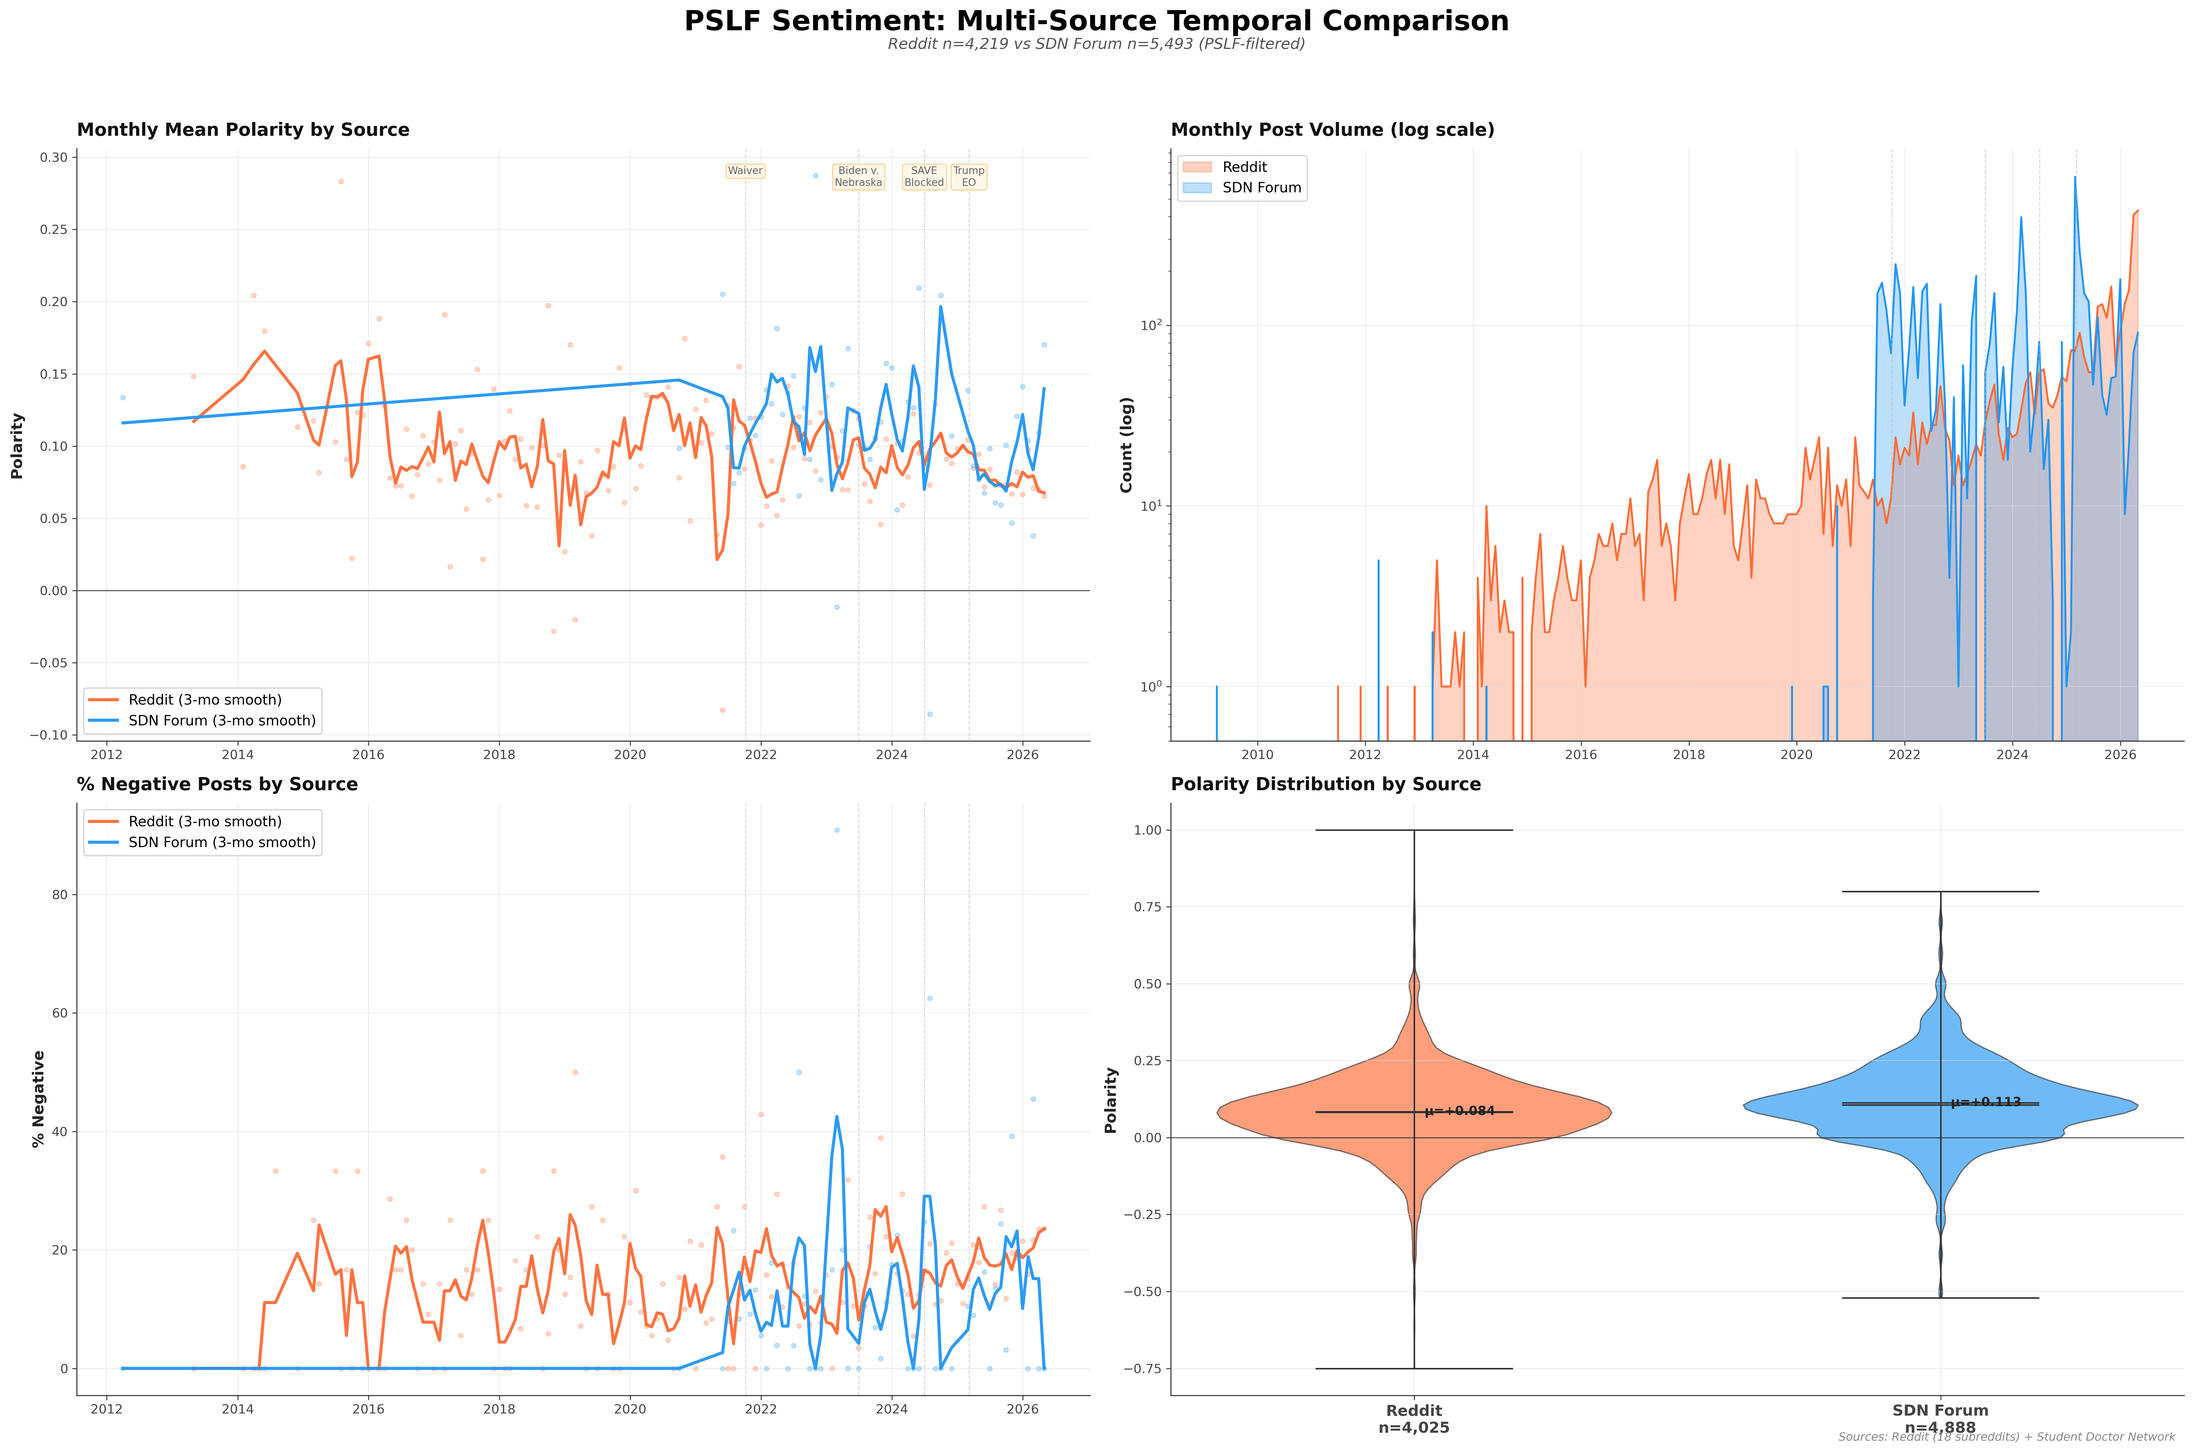
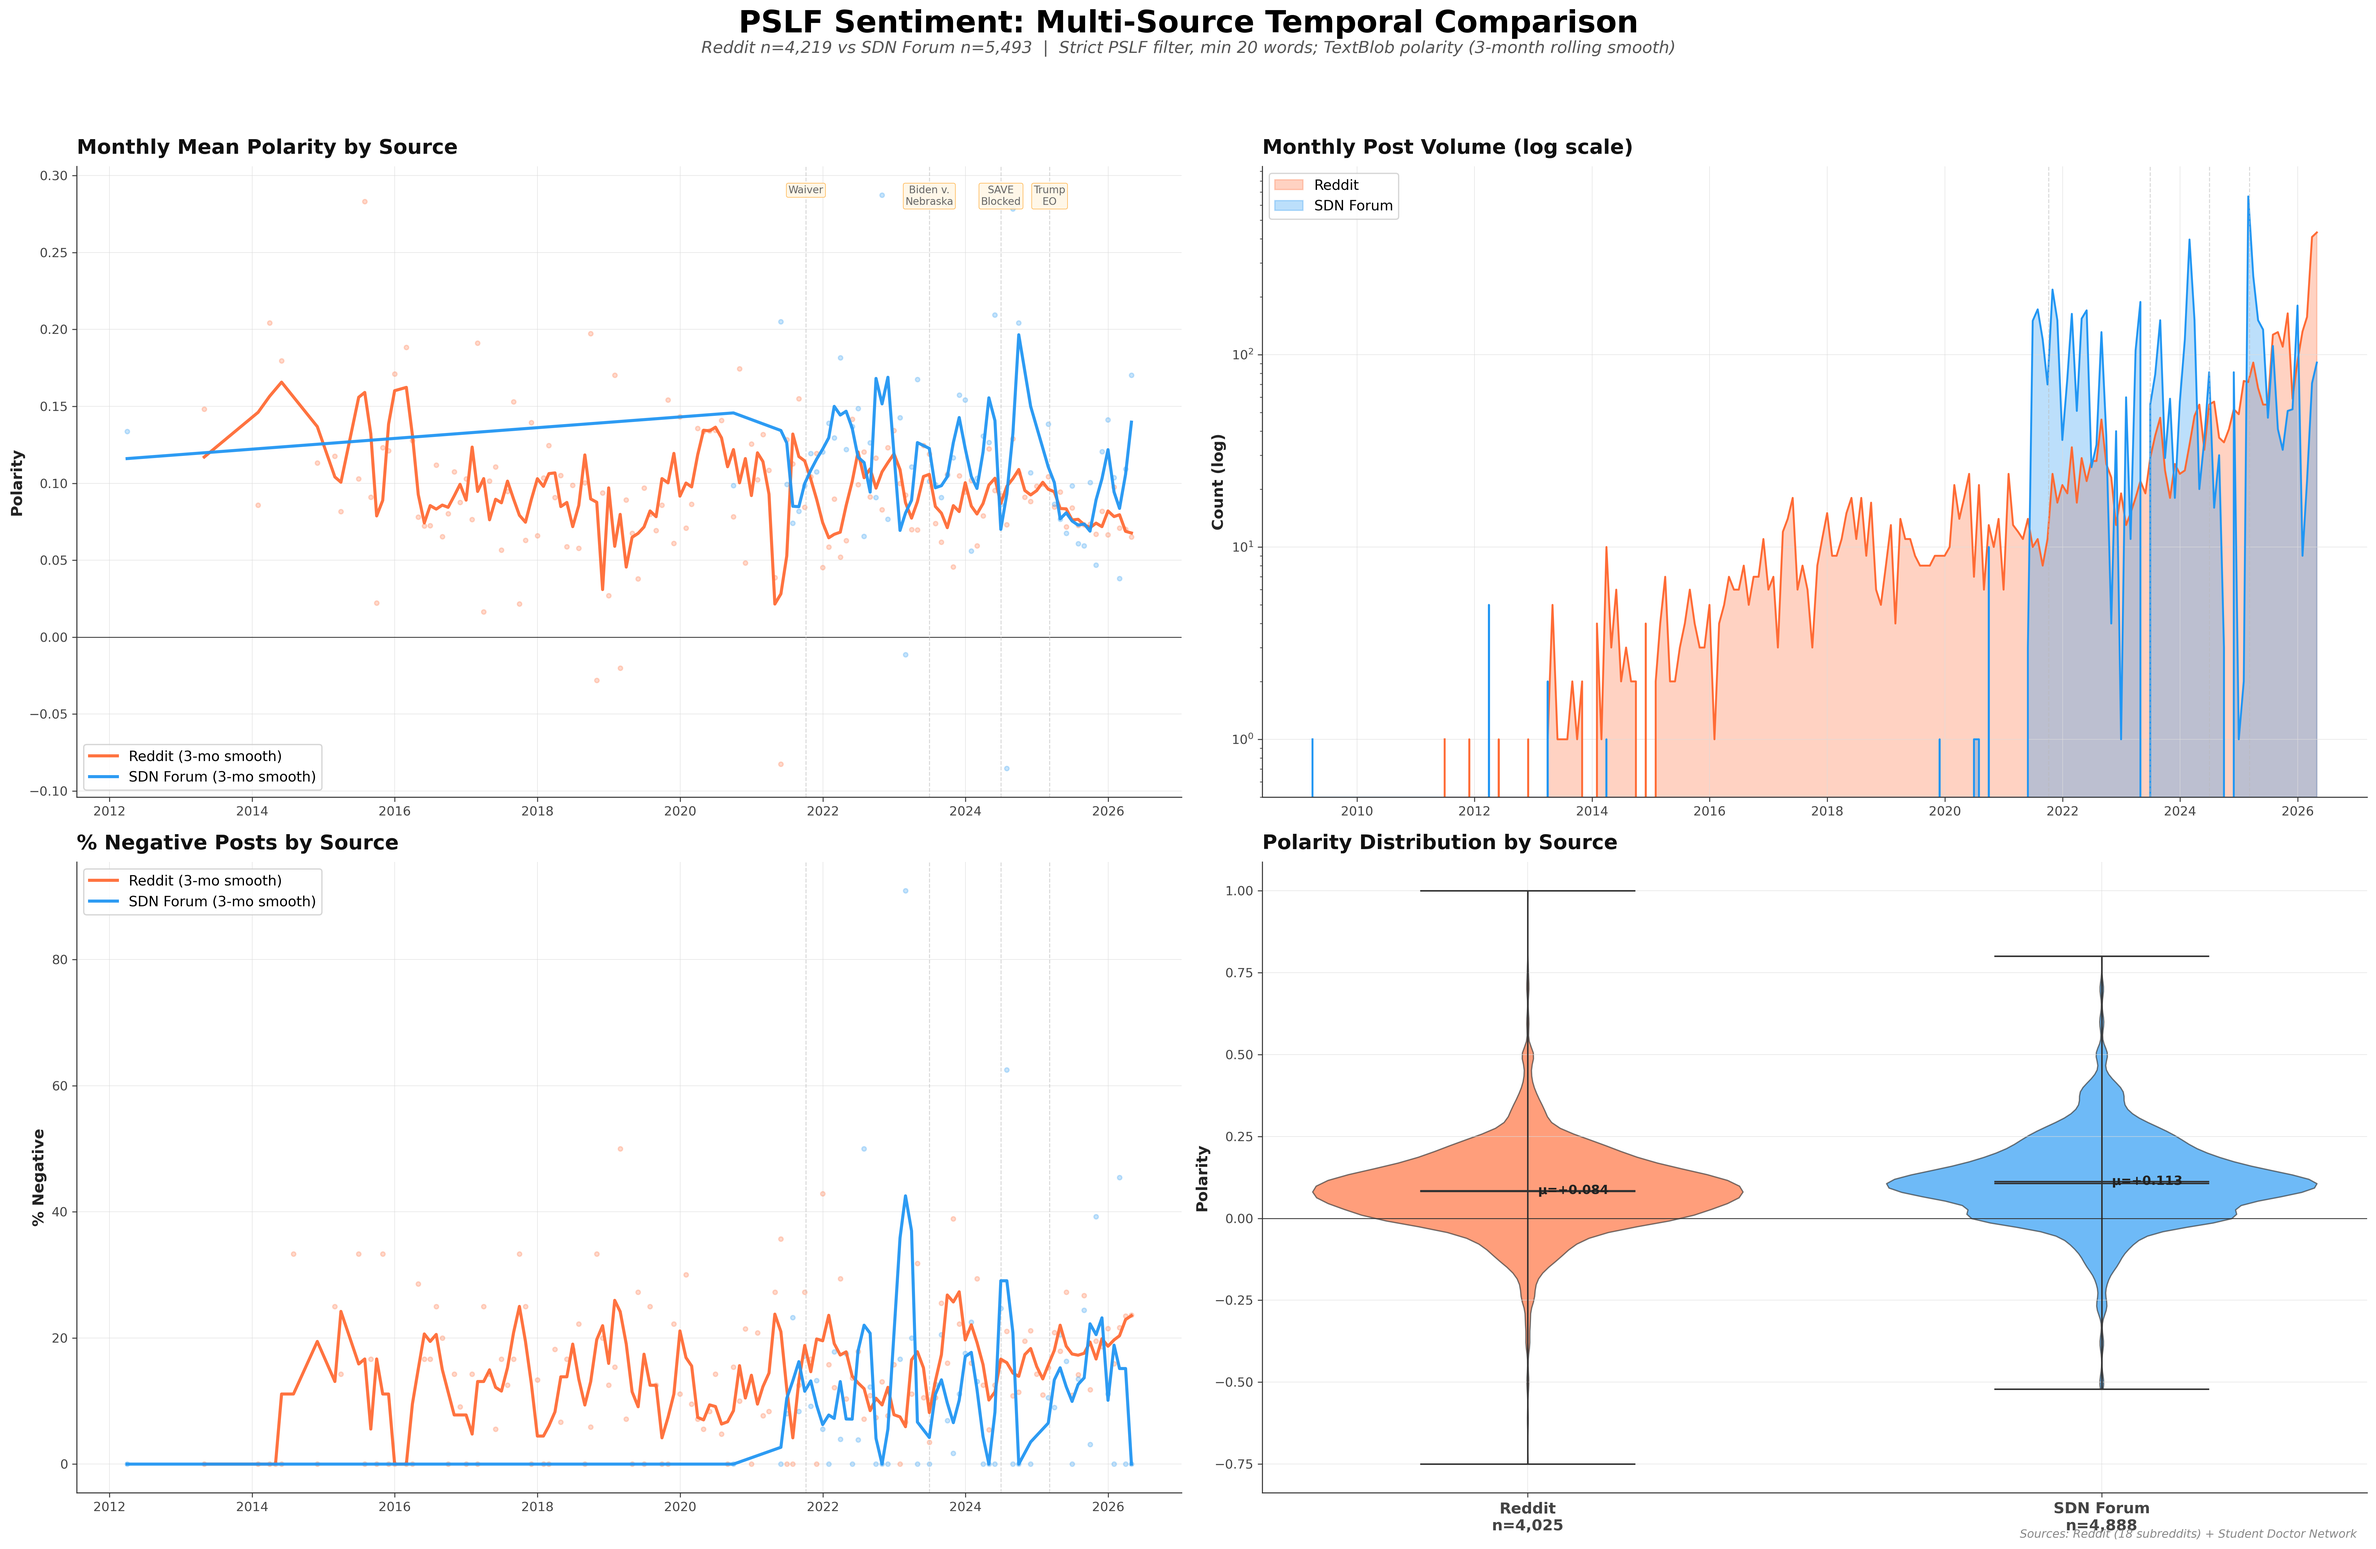
Aesthetic polish: forest plot effect-size bands, larger panel titles
Forest plot (pre/post events):
  - Cohen (1988) effect-size bands (red/yellow/green axvspan)
  - Larger CI whiskers with capped ends
  - Per-row g value annotations next to point estimates
  - Labels moved to gutter so they no longer overlap with plot data
  - Wider canvas (28x24) + more spacing (hspace=0.65, wspace=0.45)
  - Sorted by magnitude with "(sorted by magnitude)" subtitle

Multi-source comparison:
  - Larger figure (26x17) + larger title (24)
  - Subtitle now describes filter + smoothing methodology
  - Panel titles bumped to fontsize 16 for better hierarchy

Pre/post violins:
  - Title formatting: bullet separators (•) for stat readability
  - Truncate event names >32 chars to prevent line overflow

diff --git a/scripts/gen_legislative_timeline.py b/scripts/gen_legislative_timeline.py
@@ -279,17 +279,19 @@ def fig2_pre_post(all_data):
         ("Final Trump PSLF Rule", "2025-10-30", 60),
     ]
 
-    # Layout: violins on left (4 rows x 2 cols), forest plot summary on right
-    fig = plt.figure(figsize=(24, 22))
-    gs = fig.add_gridspec(4, 3, width_ratios=[1, 1, 1.4], hspace=0.55, wspace=0.3)
+    # Layout: violins on left (4 rows x 2 cols), forest plot summary on right.
+    # Wider canvas + more left margin so forest plot row labels don't collide.
+    fig = plt.figure(figsize=(28, 24))
+    gs = fig.add_gridspec(4, 3, width_ratios=[1, 1, 2.0], hspace=0.65, wspace=0.45)
 
     fig.suptitle(
         "PSLF Sentiment: Pre/Post Policy Event Analysis",
-        fontsize=22, fontweight="bold", y=0.995,
+        fontsize=24, fontweight="bold", y=0.995,
     )
-    fig.text(0.5, 0.973,
-             f"Strict filter, min {MIN_WORDS} words; Welch's t-test, Hedges' g (Bonferroni-corrected)",
-             ha="center", fontsize=12, style="italic", color="#555555")
+    fig.text(0.5, 0.974,
+             f"Strict filter, min {MIN_WORDS} words; Welch's t-test, Hedges' g (Bonferroni-corrected, "
+             f"associational, NOT causal)",
+             ha="center", fontsize=13, style="italic", color="#555555")
 
     results = []
 
@@ -339,9 +341,11 @@ def fig2_pre_post(all_data):
                 [f"Before\nn={len(pre)}", f"After\nn={len(post)}"],
                 fontsize=11,
             )
+            # Wrap long event names; show stats on second line
+            display_name = event_name if len(event_name) <= 32 else event_name[:30] + "..."
             ax.set_title(
-                f"{event_name}\n{event_date}  |  t={t:.2f}, p={p:.4f} {sig}, g={d:+.2f}",
-                fontsize=12, fontweight="bold", color=direction_color,
+                f"{display_name}\n{event_date}  •  t={t:.2f}, p={p:.4f} {sig}  •  g={d:+.2f}",
+                fontsize=13, fontweight="bold", color=direction_color, pad=10,
             )
             ax.set_ylabel("Polarity", fontsize=11)
             ax.axhline(y=0, color="#555555", linewidth=0.6, linestyle="-")
@@ -402,28 +406,56 @@ def fig2_pre_post(all_data):
             labels.append(f"{r['event']}\n({r['date']}) {sig}{bonf_mark}")
             colors_pt.append("#2E7D32" if d > 0 else "#C62828")
 
-        # Plot CI bars
+        # Plot CI bars (faded shading for emphasis on point estimates)
         for i, (lo, hi, c) in enumerate(zip(ci_lower, ci_upper, colors_pt)):
-            ax_forest.plot([lo, hi], [i, i], color=c, linewidth=2.2, alpha=0.7)
-        # Plot point estimates
-        ax_forest.scatter(d_values, y_pos, s=130, c=colors_pt, zorder=5,
-                          edgecolors="white", linewidths=1.5)
+            ax_forest.plot([lo, hi], [i, i], color=c, linewidth=3.5, alpha=0.55,
+                           solid_capstyle="round")
+            # Whiskers at CI ends
+            for end in (lo, hi):
+                ax_forest.plot([end, end], [i - 0.15, i + 0.15],
+                               color=c, linewidth=1.5, alpha=0.7)
 
-        ax_forest.axvline(x=0, color="#555555", linewidth=1, linestyle="-")
-        # Cohen's d effect size reference lines
-        for ref, lbl in [(-0.8, "Large -"), (-0.5, "Med -"), (-0.2, "Small -"),
-                         (0.2, "Small +"), (0.5, "Med +"), (0.8, "Large +")]:
-            ax_forest.axvline(x=ref, color="#CCCCCC", linewidth=0.5, linestyle=":")
-            ax_forest.text(ref, len(sorted_results) - 0.3, lbl, fontsize=8,
-                           ha="center", color="#777777")
+        # Plot point estimates as larger filled circles
+        ax_forest.scatter(d_values, y_pos, s=180, c=colors_pt, zorder=5,
+                          edgecolors="white", linewidths=2)
+
+        ax_forest.axvline(x=0, color="#222222", linewidth=1.2, linestyle="-")
+
+        # Cohen (1988) effect size reference bands (subtle backgrounds)
+        ax_forest.axvspan(-1.0, -0.8, color="#FFCDD2", alpha=0.25, zorder=0)
+        ax_forest.axvspan(-0.8, -0.5, color="#FFE0B2", alpha=0.25, zorder=0)
+        ax_forest.axvspan(-0.5, -0.2, color="#FFF9C4", alpha=0.25, zorder=0)
+        ax_forest.axvspan(0.2, 0.5, color="#FFF9C4", alpha=0.25, zorder=0)
+        ax_forest.axvspan(0.5, 0.8, color="#DCEDC8", alpha=0.25, zorder=0)
+        ax_forest.axvspan(0.8, 1.0, color="#C8E6C9", alpha=0.25, zorder=0)
+
+        # Effect-size threshold labels (top of plot, less cluttered)
+        for ref, lbl in [(-0.8, "Large"), (-0.5, "Med"), (-0.2, "Small"),
+                         (0.2, "Small"), (0.5, "Med"), (0.8, "Large")]:
+            ax_forest.axvline(x=ref, color="#999999", linewidth=0.6,
+                              linestyle=":", alpha=0.5)
+            ax_forest.text(ref, len(sorted_results) - 0.15, lbl, fontsize=9,
+                           ha="center", color="#666666", fontweight="bold")
+
+        # Annotate each row's g value next to its point
+        for d, i, c in zip(d_values, y_pos, colors_pt):
+            ax_forest.annotate(f"g={d:+.2f}", xy=(d, i),
+                               xytext=(0, 12 if d < 0 else -12),
+                               textcoords="offset points",
+                               ha="center", va="bottom" if d < 0 else "top",
+                               fontsize=9, fontweight="bold", color=c)
 
         ax_forest.set_yticks(y_pos)
-        ax_forest.set_yticklabels(labels, fontsize=10)
-        ax_forest.set_xlabel("Hedges' g (Effect Size, 95% CI)", fontsize=12, fontweight="bold")
-        ax_forest.set_title("Effect Size Summary", fontsize=14, fontweight="bold", loc="left")
-        ax_forest.set_xlim(min(min(ci_lower), -0.6), max(max(ci_upper), 0.6))
-        ax_forest.set_ylim(-0.7, len(sorted_results) - 0.3)
-        ax_forest.grid(axis="x", alpha=0.5)
+        ax_forest.set_yticklabels(labels, fontsize=11)
+        ax_forest.set_xlabel("Hedges' g (Effect Size, 95% CI)",
+                             fontsize=13, fontweight="bold")
+        ax_forest.set_title("Effect Size Summary (sorted by magnitude)",
+                            fontsize=15, fontweight="bold", loc="left", pad=12)
+        ax_forest.set_xlim(min(min(ci_lower) - 0.05, -0.7), max(max(ci_upper) + 0.05, 0.7))
+        ax_forest.set_ylim(-0.7, len(sorted_results) - 0.05)
+        ax_forest.grid(axis="x", alpha=0.4, linestyle=":")
+        ax_forest.tick_params(axis="y", which="both", length=0)
+        ax_forest.set_axisbelow(True)
 
     fig.text(0.99, 0.005,
              "*p<0.05, **p<0.01, ***p<0.001  |  Effect-size thresholds: Cohen (1988)",

diff --git a/scripts/gen_hires_figs.py b/scripts/gen_hires_figs.py
@@ -285,14 +285,15 @@ def generate_fig1(reddit: pd.DataFrame, sdn: pd.DataFrame, output_dir: str) -> N
     events = [("2021-10-06", "Waiver"), ("2023-06-30", "Biden v.\nNebraska"),
               ("2024-07-01", "SAVE\nBlocked"), ("2025-03-07", "Trump\nEO")]
 
-    fig, axes = plt.subplots(2, 2, figsize=(24, 16))
+    fig, axes = plt.subplots(2, 2, figsize=(26, 17))
     fig.suptitle(
         "PSLF Sentiment: Multi-Source Temporal Comparison",
-        fontsize=22, fontweight="bold", y=0.98,
+        fontsize=24, fontweight="bold", y=0.985,
     )
-    fig.text(0.5, 0.953,
-             f"Reddit n={len(reddit):,} vs SDN Forum n={len(sdn):,} (PSLF-filtered)",
-             ha="center", fontsize=12, style="italic", color="#555555")
+    fig.text(0.5, 0.957,
+             f"Reddit n={len(reddit):,} vs SDN Forum n={len(sdn):,}  |  Strict PSLF filter, "
+             f"min 20 words; TextBlob polarity (3-month rolling smooth)",
+             ha="center", fontsize=13, style="italic", color="#555555")
 
     def add_events(ax, label_top=False):
         for ds, label in events:
@@ -323,7 +324,7 @@ def generate_fig1(reddit: pd.DataFrame, sdn: pd.DataFrame, output_dir: str) -> N
                      color=colors[name], linewidth=2.4, alpha=0.95, zorder=3)
     ax1.axhline(y=0, color="#222222", linewidth=0.6)
     add_events(ax1, label_top=True)
-    ax1.set_title("Monthly Mean Polarity by Source", fontsize=14,
+    ax1.set_title("Monthly Mean Polarity by Source", fontsize=16,
                   fontweight="bold", loc="left")
     ax1.set_ylabel("Polarity", fontsize=12, fontweight="bold")
     ax1.legend(fontsize=11, loc="lower left", frameon=True, facecolor="white",
@@ -345,7 +346,7 @@ def generate_fig1(reddit: pd.DataFrame, sdn: pd.DataFrame, output_dir: str) -> N
     ax2.set_yscale("log")
     ax2.set_ylim(0.5, None)
     add_events(ax2)
-    ax2.set_title("Monthly Post Volume (log scale)", fontsize=14,
+    ax2.set_title("Monthly Post Volume (log scale)", fontsize=16,
                   fontweight="bold", loc="left")
     ax2.set_ylabel("Count (log)", fontsize=12, fontweight="bold")
     ax2.legend(fontsize=11, loc="upper left", frameon=True, facecolor="white",
@@ -369,7 +370,7 @@ def generate_fig1(reddit: pd.DataFrame, sdn: pd.DataFrame, output_dir: str) -> N
             ax3.plot(smooth.index, smooth.values, label=f"{name} (3-mo smooth)",
                      color=colors[name], linewidth=2.4, alpha=0.95, zorder=3)
     add_events(ax3)
-    ax3.set_title("% Negative Posts by Source", fontsize=14,
+    ax3.set_title("% Negative Posts by Source", fontsize=16,
                   fontweight="bold", loc="left")
     ax3.set_ylabel("% Negative", fontsize=12, fontweight="bold")
     ax3.legend(fontsize=11, loc="upper left", frameon=True, facecolor="white",
@@ -404,7 +405,7 @@ def generate_fig1(reddit: pd.DataFrame, sdn: pd.DataFrame, output_dir: str) -> N
                          xytext=(8, 0), textcoords="offset points",
                          fontsize=10, fontweight="bold", color="#222222",
                          va="center")
-        ax4.set_title("Polarity Distribution by Source", fontsize=14,
+        ax4.set_title("Polarity Distribution by Source", fontsize=16,
                       fontweight="bold", loc="left")
         ax4.set_ylabel("Polarity", fontsize=12, fontweight="bold")
         ax4.axhline(y=0, color="#222222", linewidth=0.6)
